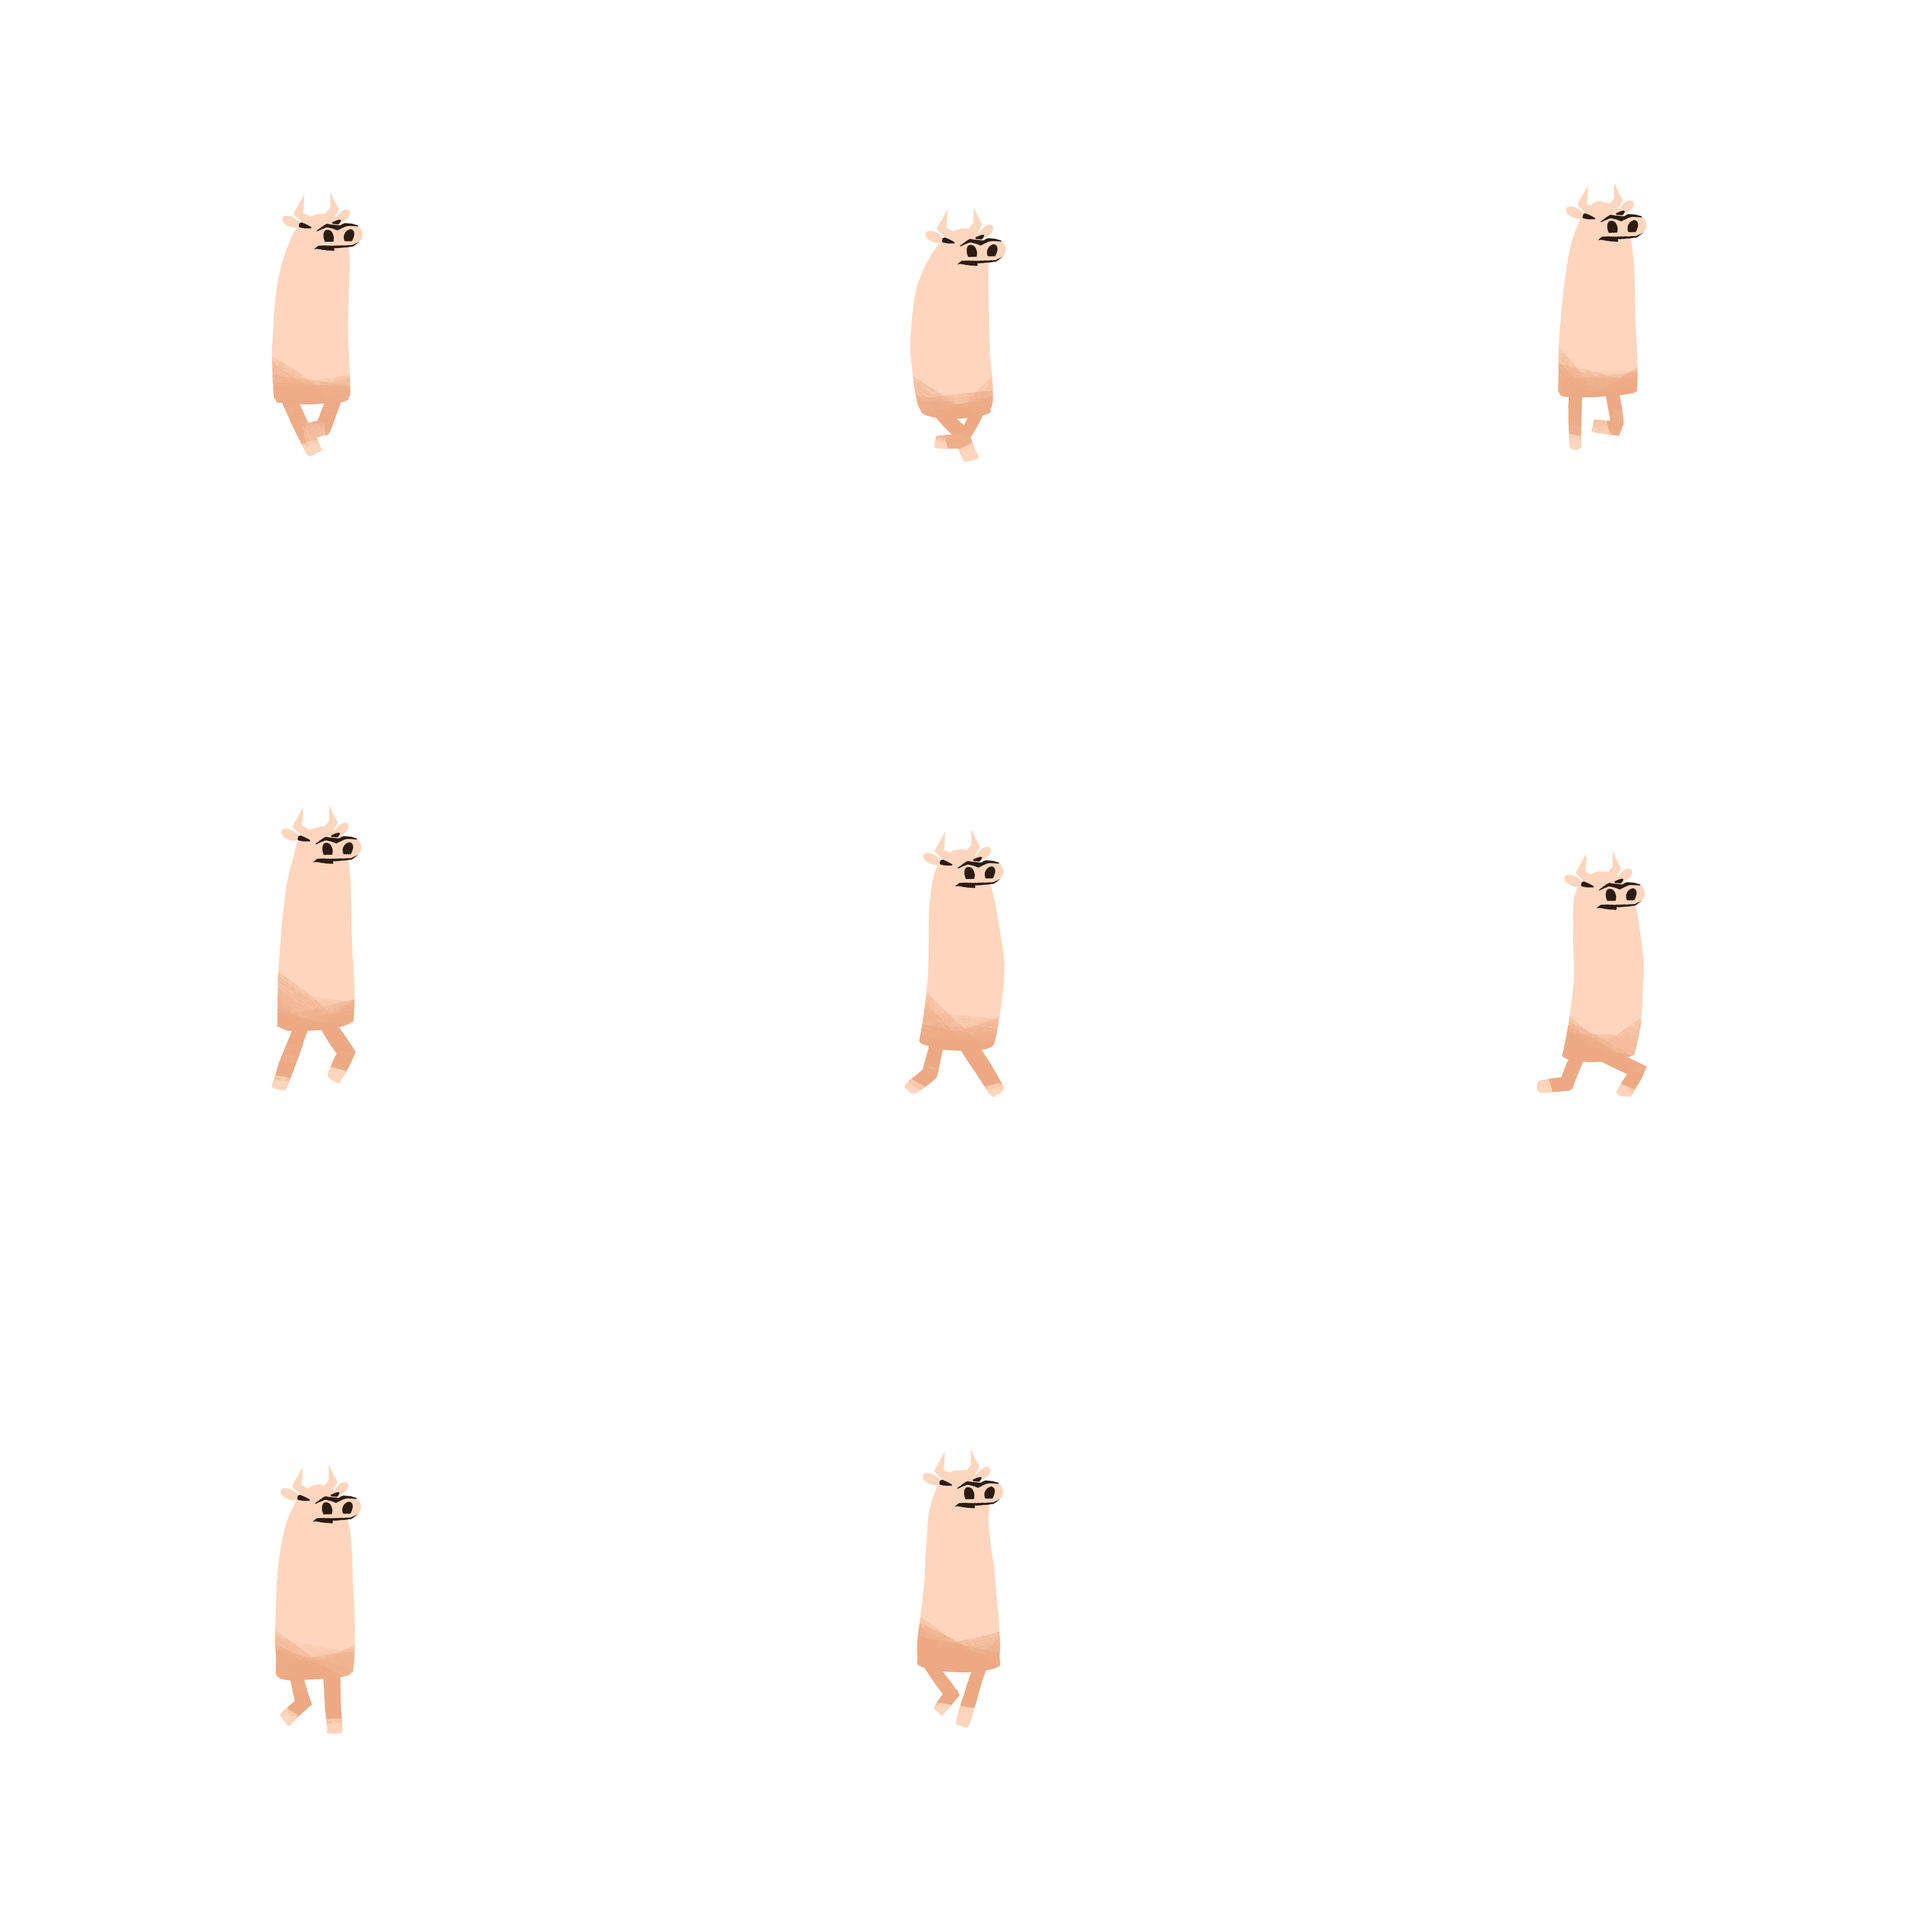
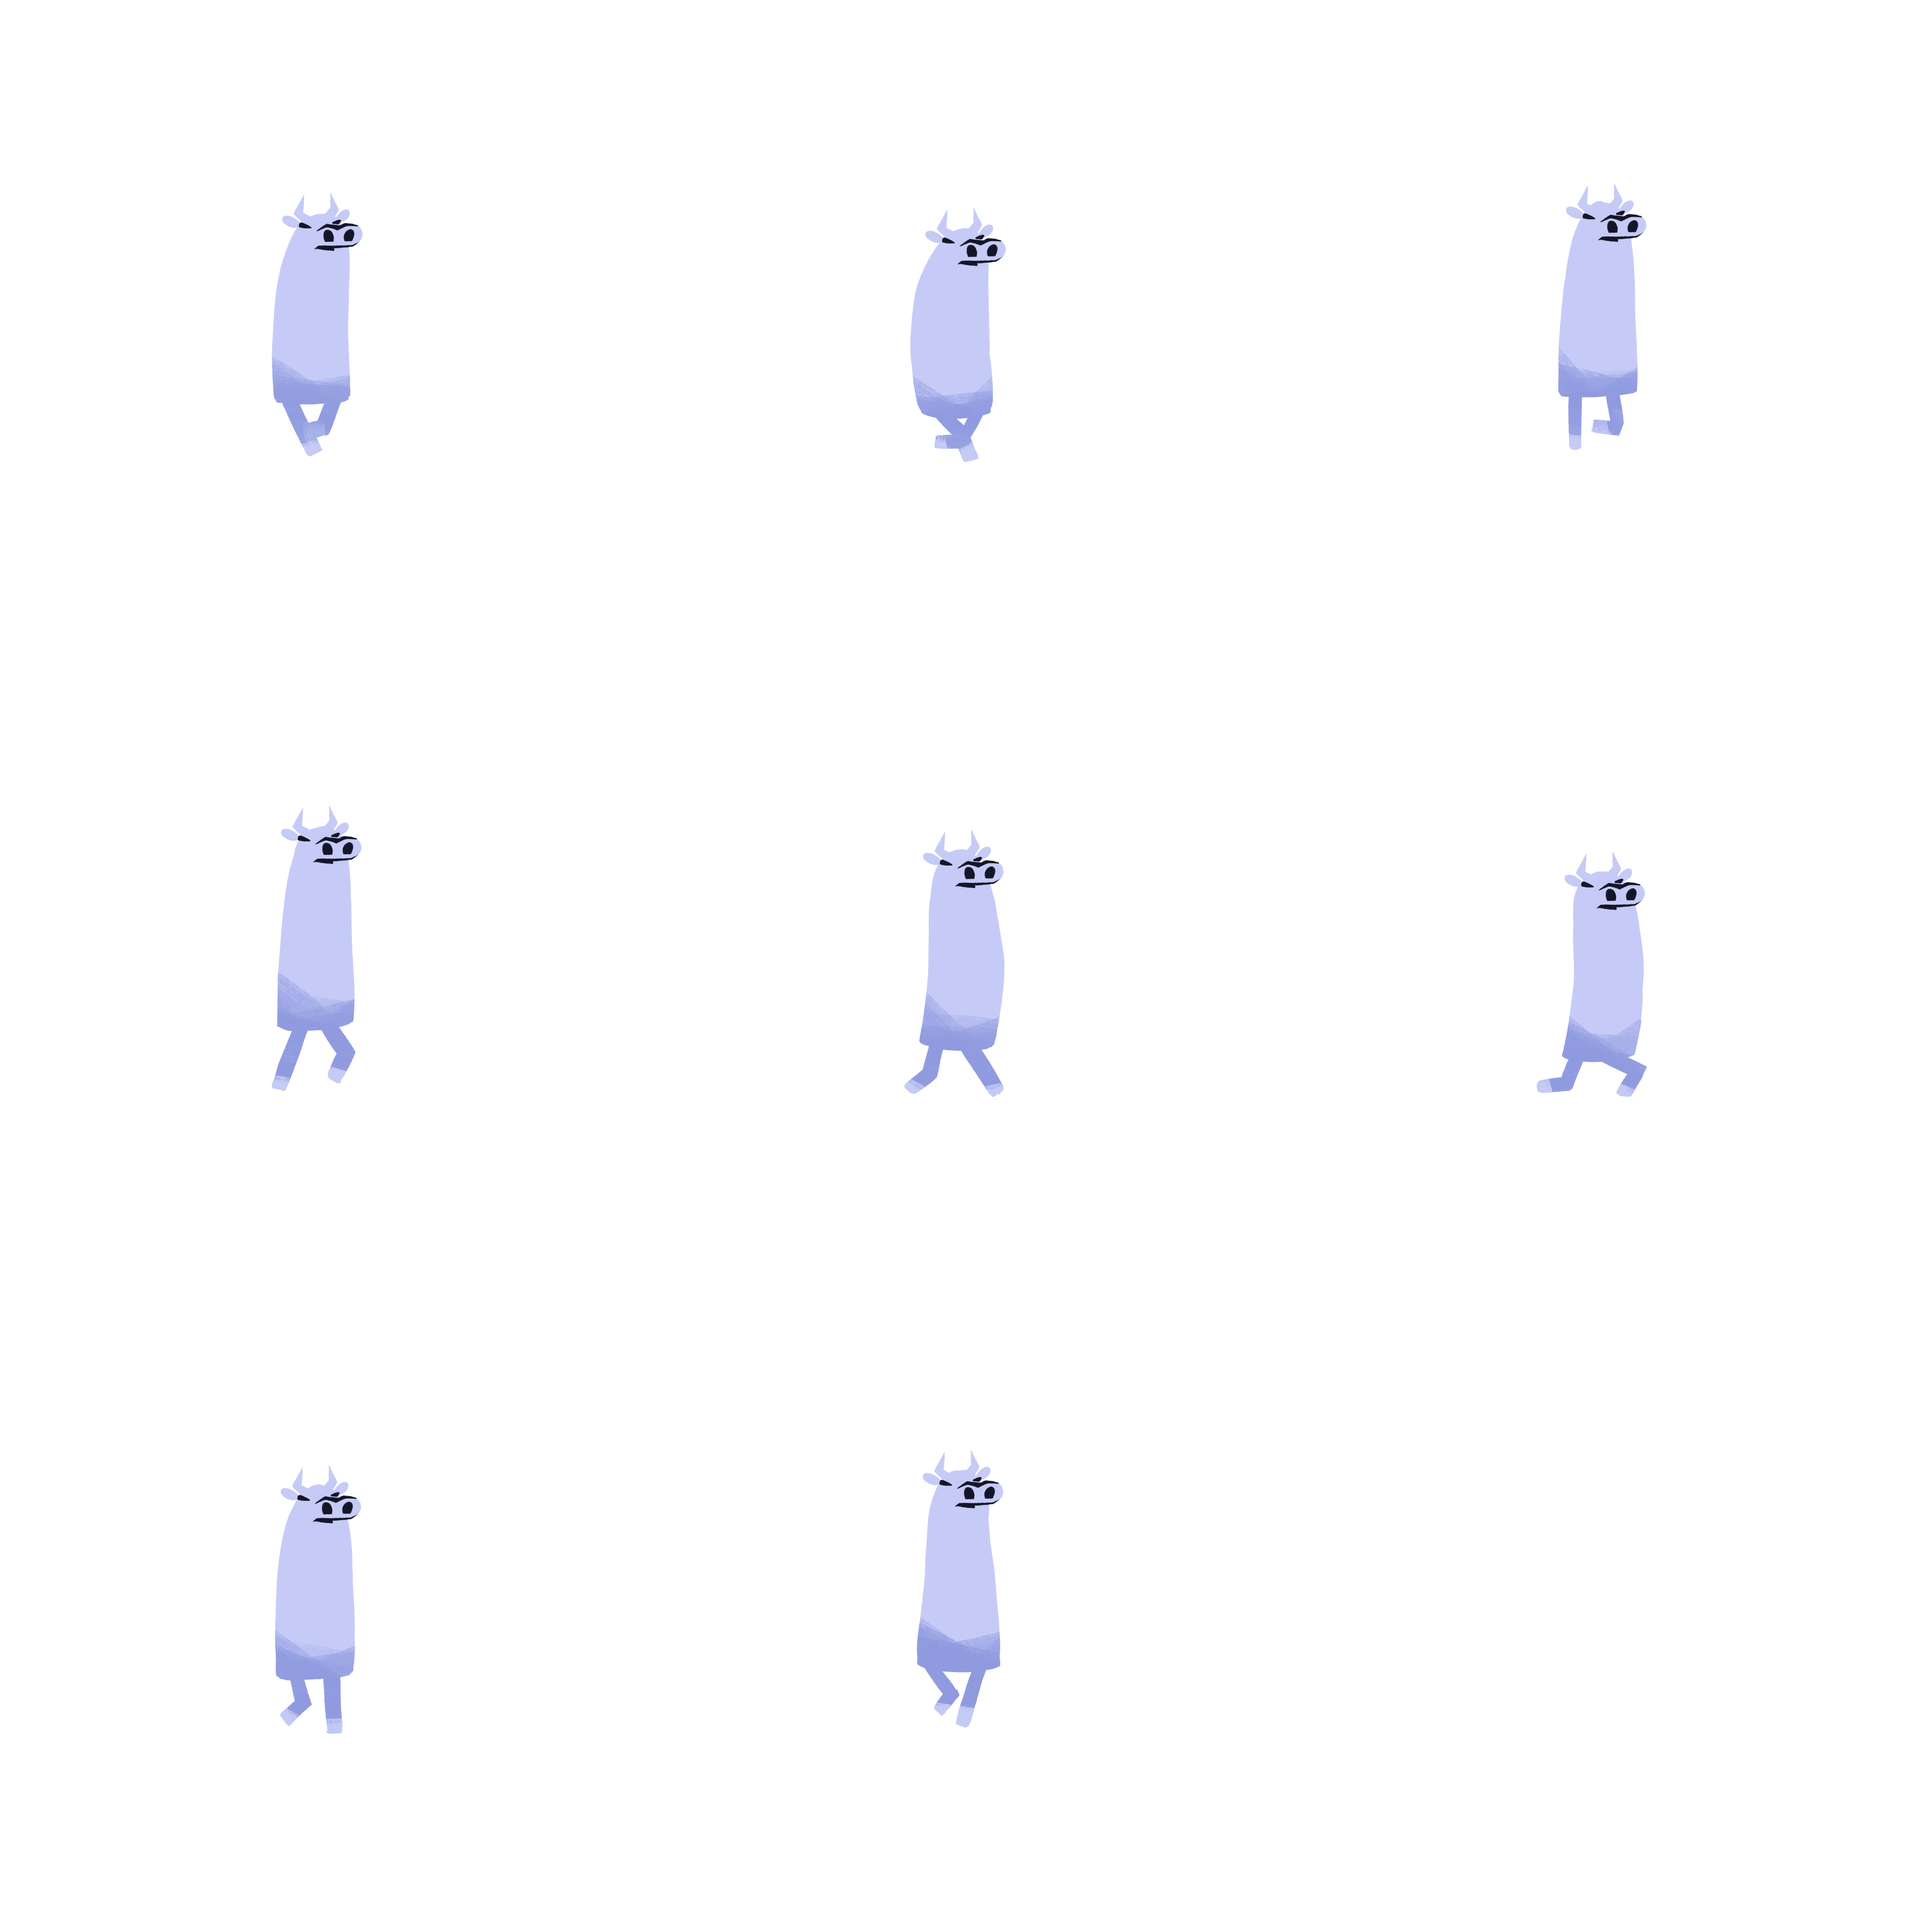
Character Colors

diff --git a/Assets/Script/Trails/AfterImageEmitter.cs b/Assets/Script/Trails/AfterImageEmitter.cs
@@ -28,6 +28,7 @@ public class AfterImageEmitter : MonoBehaviour
         if (lastTrail > Time.time || TrailDuration + TrailAppearance < TrailFailure)
             return;
 
+        mCol = TrailColor;
         mCol.a = TrailColor.a * TrailAlpha;
 
         SpecialEffectPooler.main.CreateTrailOnGameObject(gameObject, mCol, TrailAppearance, TrailDuration);
